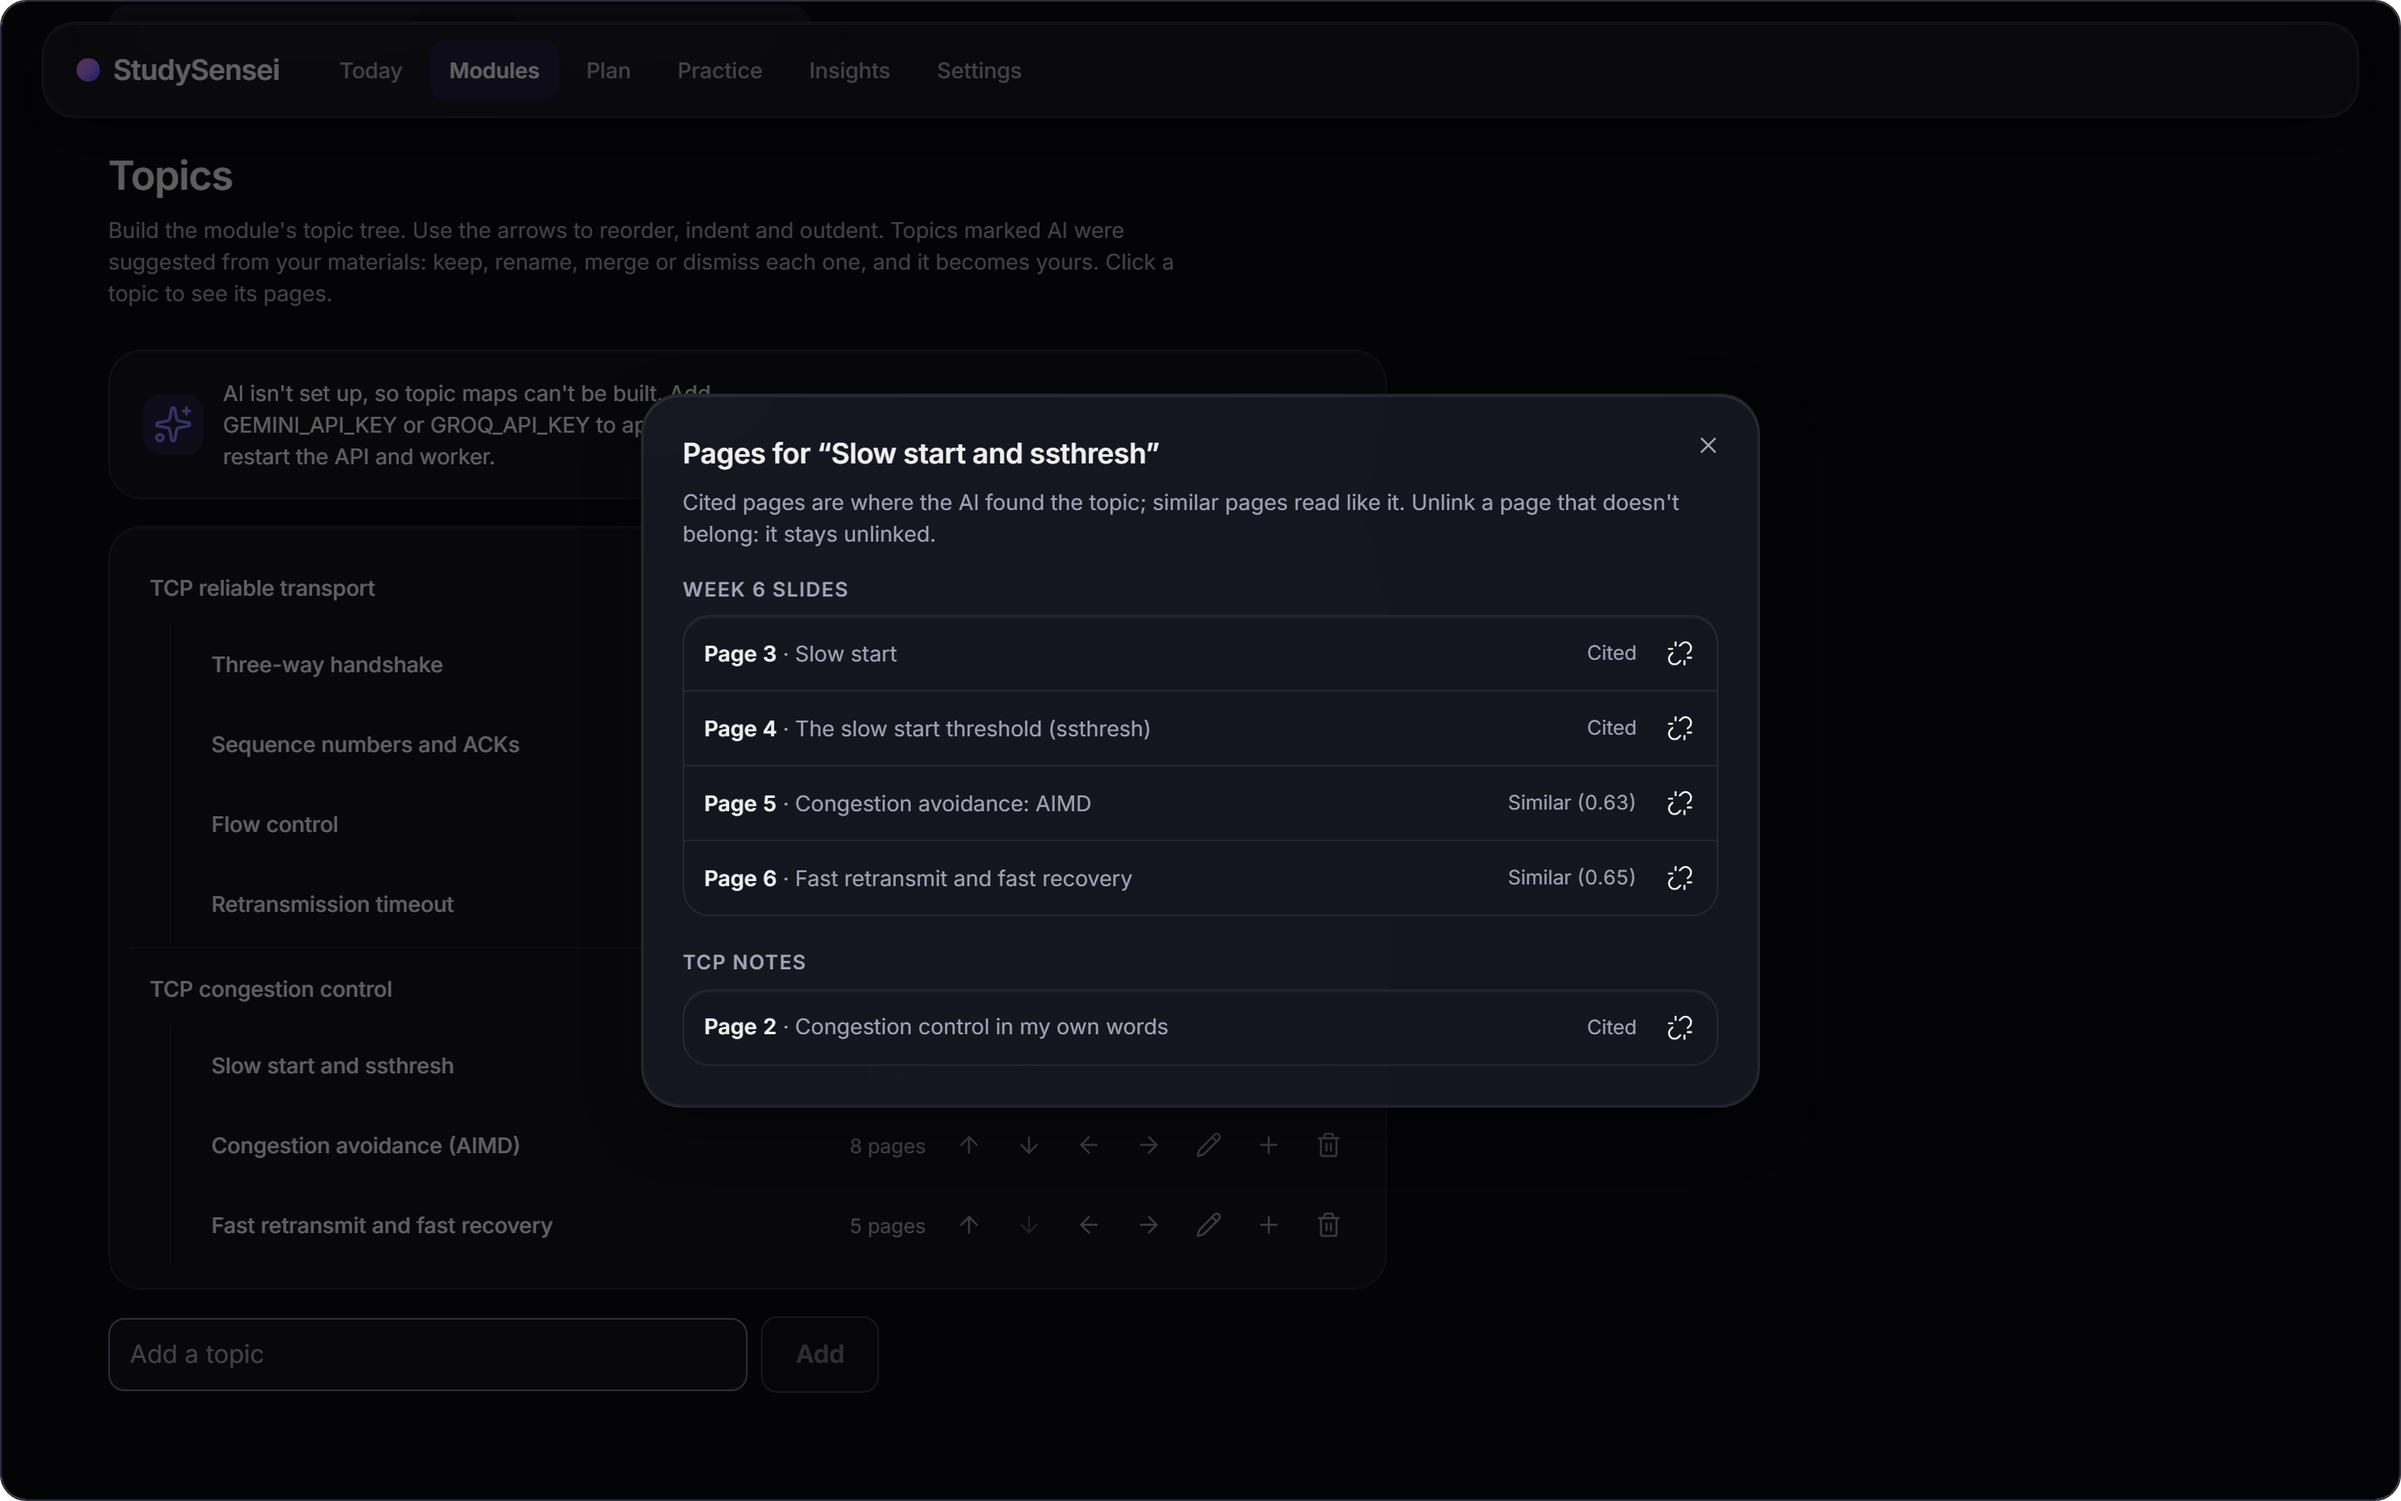
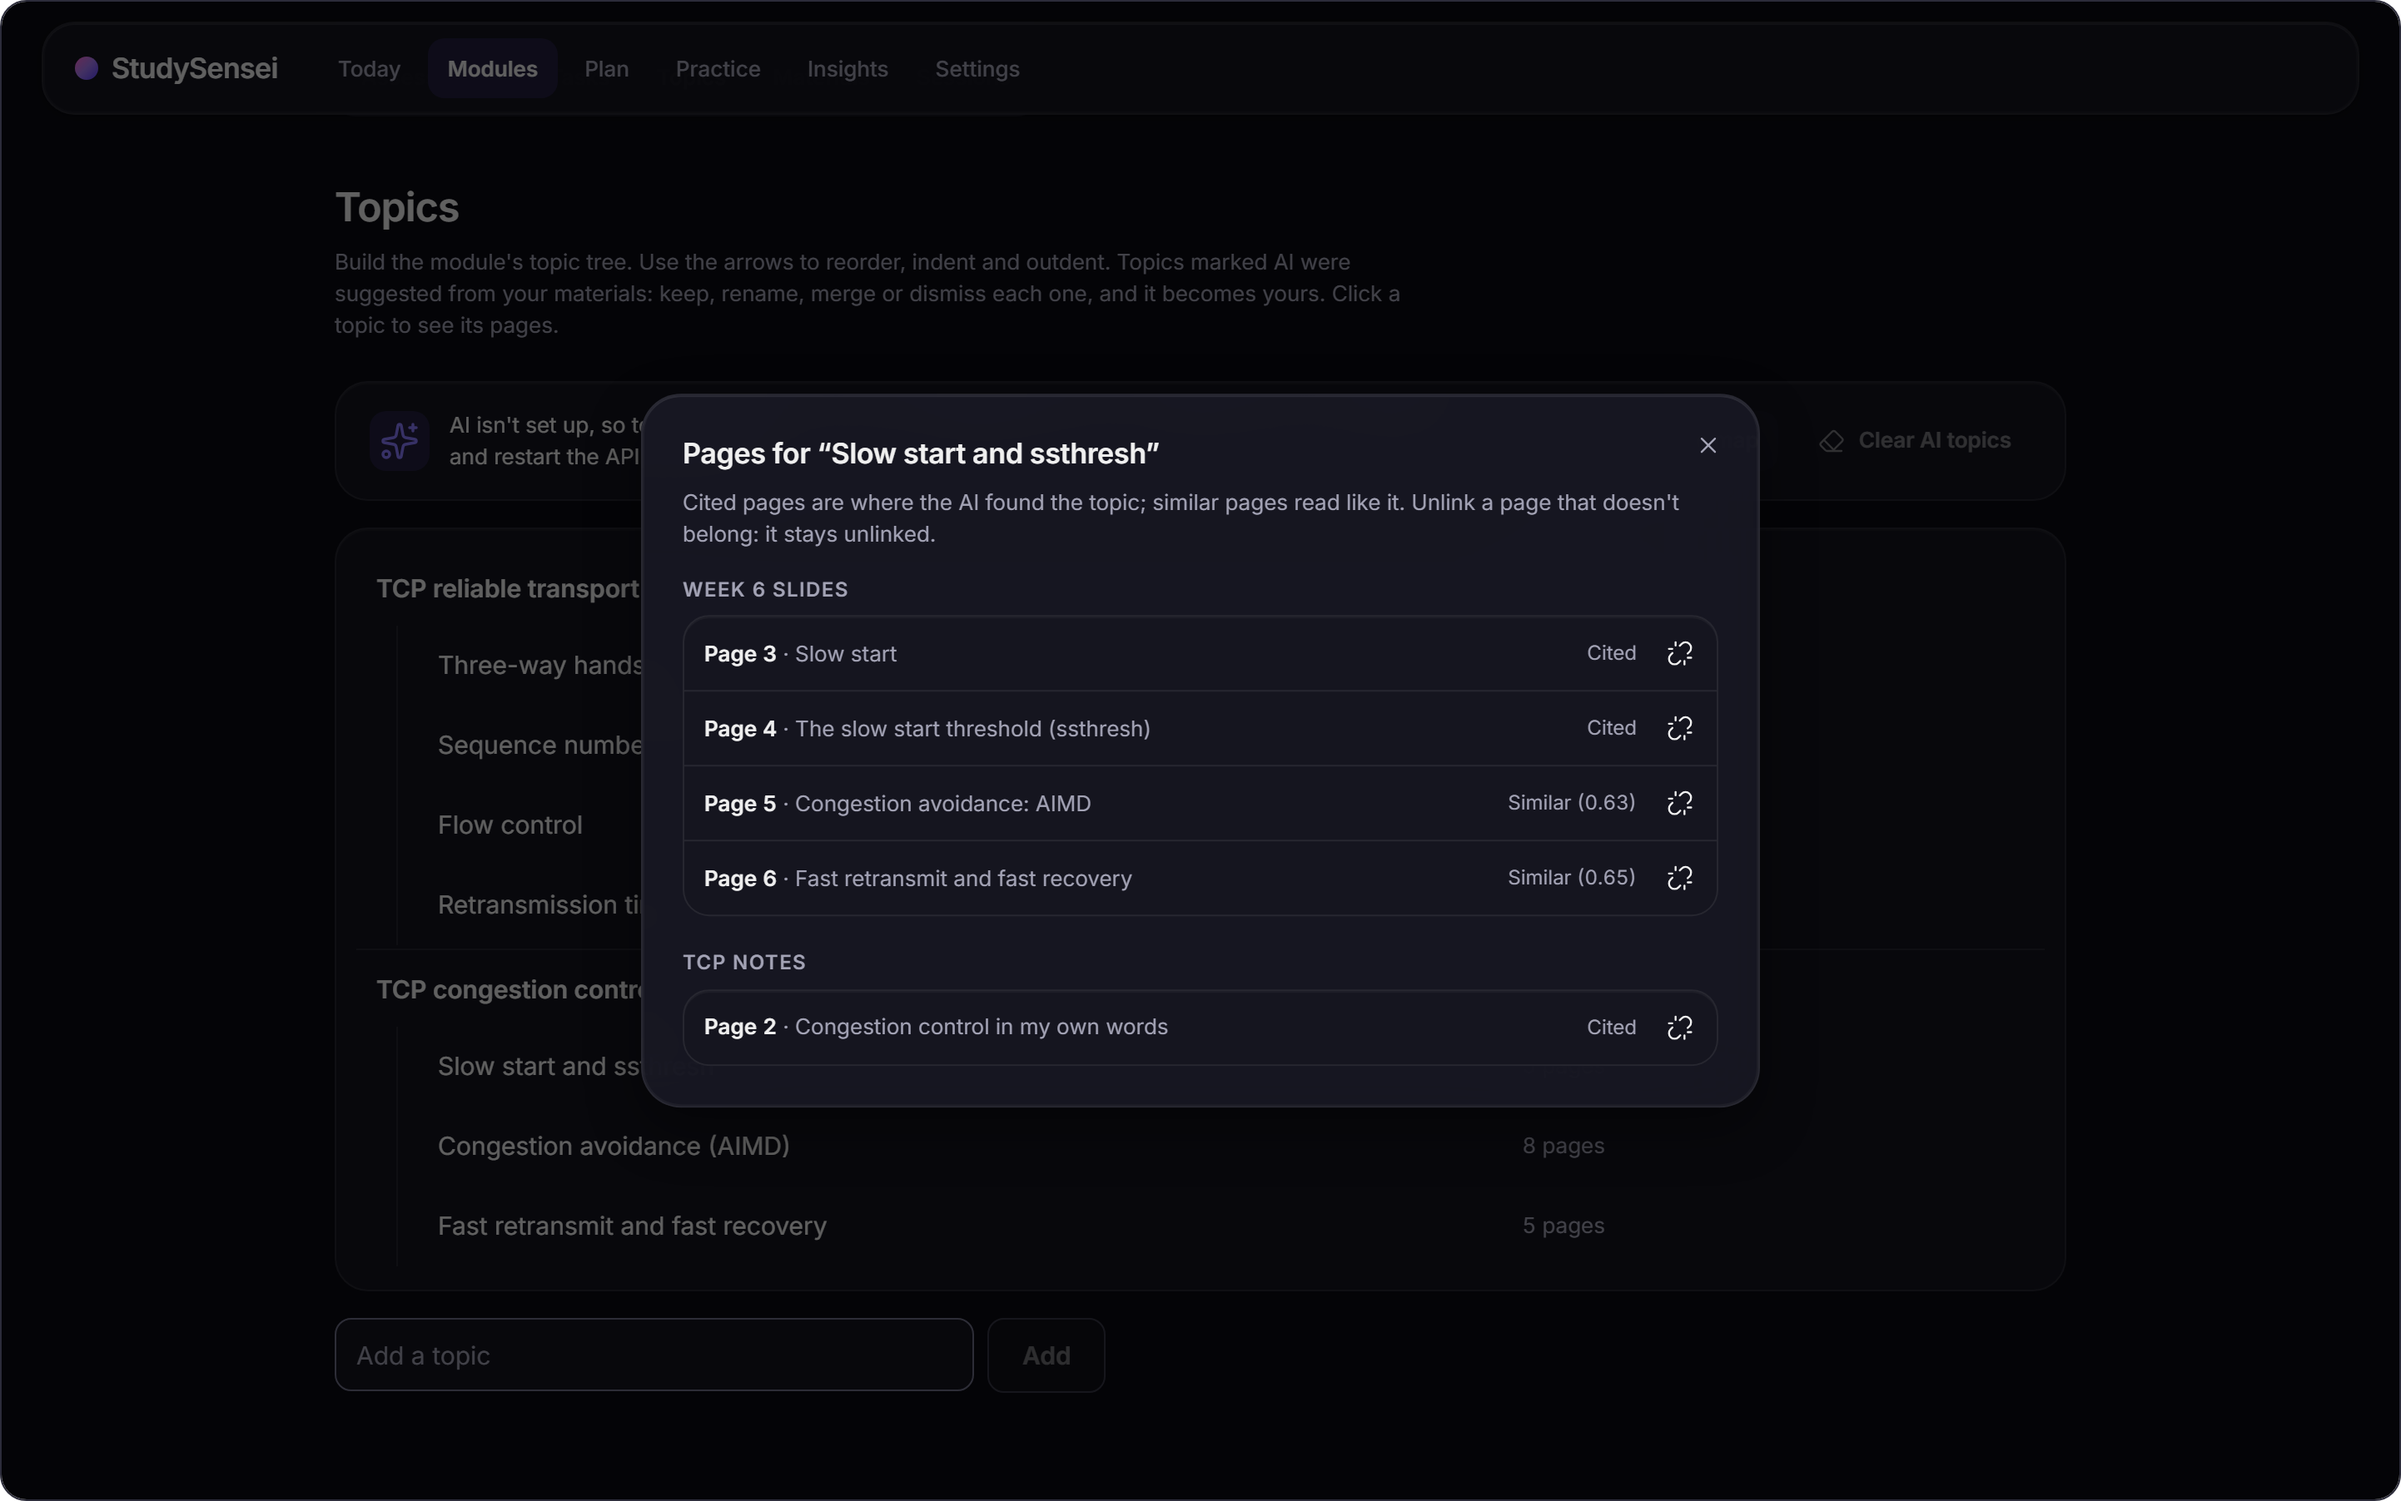
docs: badges, screenshots and assets regenerated; DESIGN rules; PROGRESS

diff --git a/docs/DESIGN.md b/docs/DESIGN.md
@@ -115,7 +115,8 @@ hairline, a top highlight and a soft shadow.
 | --- | --- | --- | --- |
 | `glass` | `rgba(255,255,255,0.62)` | `rgba(24,24,36,0.55)` | Glass over a known, soft backdrop: the session bar over its mist |
 | `glass-hero` | `rgba(255,255,255,0.80)` | `rgba(24,24,36,0.78)` | Text over the signature gradient (Today's hero) |
-| `glass-strong` | `rgba(255,255,255,0.86)` | `rgba(24,24,36,0.86)` | Glass that can float over anything: navigation, dialogs, menus, toolbars, toasts |
+| `glass-strong` | `rgba(255,255,255,0.86)` | `rgba(24,24,36,0.86)` | Glass that can float over anything: dialogs, menus, toolbars, toasts |
+| `glass-nav` | `rgba(255,255,255,0.92)`, blur 36 px | `rgba(21,21,31,0.94)`, blur 36 px | The navigation (top bar and phone tab bar): content scrolls under it all the time, so it's the most opaque |
 
 **Legibility:** every glass surface keeps 4.5:1 for `fg` and `muted` text against the worst case behind it. The base
 recipe passes over the session mist, but not over dark text or a bright module colour, so glass that can float over
@@ -132,7 +133,8 @@ any content uses `glass-strong`; `tokens.test.ts` checks each against its worst 
 | **Button: ghost / link** | No fill; hover `subtle`. Links are `link` violet |
 | **Button: destructive** | `surface` fill, `danger` text and border; hover a faint danger tint |
 | **States** | Hover (fill steps), pressed (scale 0.98), focus-visible (2 px `ring` outline, 2 px offset), selected (`accent-soft` or a raised surface), disabled (45 % opacity), loading (skeletons), empty, error (`danger` text with `role="alert"`), success (`success` text) |
-| **Top navigation** | Sticky glass bar, radius 20, inset from the edges. Wordmark (17/600 with a gradient dot), then sections; the current one is an `accent-soft` pill. Below 640 px the sections scroll sideways under the wordmark |
+| **Navigation** | One `<nav>`. From 640 px: a sticky `glass-nav` bar at the top, radius 20, inset from the edges, with the wordmark (17/600 with a gradient dot) and the sections; the current one is an `accent-soft` pill. Below 640 px: the wordmark stays at the top and the sections become a `glass-nav` tab bar fixed to the bottom (icons and 11 px labels, safe-area insets, the current tab violet on `accent-soft`) |
+| **Menu** (`ui/dropdown-menu.tsx`) | A "…" button (`MoreButton`, with a label) opening a `glass-strong` popover, radius 16; items 13/500, min-height 40; destructive items in `danger`. For secondary actions (a module's Edit and Delete; a topic's actions on touch screens) |
 | **Page header** | Label eyebrow, then H1 (or Display on Today), optional description, actions or tiles on the right |
 | **Card** | Solid `surface`, 1 px `line`, `shadow-sm`, radius 20, padding 20–24. `key` adds `shadow-md` |
 | **Segmented control** (tabs) | `subtle` track, radius 12, padding 4; segments radius 9; the selected one is a raised `surface` with `fg` text; others `muted`. Real `role="tab"` + `aria-selected`; scrolls sideways when narrow |
@@ -144,27 +146,34 @@ any content uses `glass-strong`; `tokens.test.ts` checks each against its worst 
 | **Meters** | Solid track (`subtle`), violet fill, with the *Measured* / *Estimated* labels beside them |
 | **Skeleton** | `skeleton` utility: a `subtle` block that pulses (opacity only) |
 | **Empty state** | One icon in an `accent-soft` well, one sentence, at most one action |
+| **Search result** | Leads with what will open, in strong text: the material's title and "page N"; the snippet underneath (Markdown stripped for display, highlights kept), clamped to 3 lines; one result per page, with "N matches on this page" when there are more |
+| **Viewer page** | A solid surface. **Fit page** (the default) fits the whole page into the visible area with no scrollbars; **Fit width** fits the width and scrolls down, with its scrollbar space reserved so the width never changes while drawing |
+| **Topic tree rows** | Chapters 15/600, subtopics 15/400, page counts muted. Row actions appear on hover and focus-within (still in the tab order); on touch screens they're behind one "…" menu |
 | **Icons** | lucide-react only, one stroke width (1.75, set globally) |
 
 ## Screens
 
 - **Today** (the most expressive): an editorial date in Display type; "Next up" as the hero card, the gradient as its
-  background with its text on a `glass-hero` layer; countdown tiles, deadlines and the day timeline (module-colour
-  blocks) calm and solid; the system status card quiet.
-- **Session** (`/session`): a very large, light timer inside a progress ring with a gradient stroke; a faint ambient
-  gradient mist behind it in both themes; a floating `glass` control bar (pause, break, end); the reflection form solid
-  and calm; the away dialog in glass.
-- **Modules and module detail:** a clean header with the module's colour; tabs as a segmented control; solid, readable
-  lists and tables.
+  background with its text on a `glass-hero` layer; countdown tiles and deadlines calm and solid; "Your day" a compact empty state until the
+  planner (Phase 4) supplies blocks; the system status card quiet.
+- **Session** (`/session`): one centred column: a very large, light timer inside a progress ring with a gradient
+  stroke; a faint ambient gradient mist behind it in both themes; a floating `glass` control bar (pause, break, end);
+  then one small card for Materials and the tutor note (the tutor gets its own column when it exists, Phase 3); the
+  reflection form solid and calm; the away dialog in glass.
+- **Modules and module detail:** a clean header with the module's colour, Start session as the one primary action and
+  Edit and Delete in a "…" menu; tabs as a segmented control; solid, readable lists and tables.
 - **Topics:** a solid tree; AI and review state shown subtly (a small violet dot and a quiet label); the ReviewBar a
   floating glass toolbar; the merge and linked-pages dialogs in glass.
 - **Materials:** a refined upload area and status, skeleton loaders, a prominent search box, and the viewer's chrome
   in glass with the page canvas on a solid surface.
-- **Settings:** AI providers in solid cards with violet usage meters (labels kept), and Appearance.
+- **Settings:** Appearance first, then AI providers in solid cards with violet usage meters (labels kept).
 - **Placeholders** (Plan, Practice, Insights): a designed empty state saying which phase each arrives in.
 
-## Responsive
+## Layout and responsive
 
-Desktop (1440), tablet (768) and mobile (375). Page padding 16 on mobile, 32 on tablet, 40 on desktop. Grids collapse
-to one column below 1024 px; the navigation scrolls sideways below 640 px; dialogs stay within the viewport and scroll
-inside.
+- **One container per page:** 1120 px, centred. A page's header and its content share it, so header actions line up
+  with the content's right edge. Sections don't add narrower columns of their own; only long prose keeps a readable
+  measure (`max-w-2xl` on the paragraph).
+- Desktop (1440), tablet (768) and mobile (375). Page padding 16 on mobile, 32 on tablet, 40 on desktop. Grids collapse
+  to one column below 1024 px; below 640 px the navigation is the bottom tab bar and pages keep room for it; dialogs
+  stay within the viewport and scroll inside.

diff --git a/docs/PROGRESS.md b/docs/PROGRESS.md
@@ -2,6 +2,55 @@
 
 Newest first. 3–5 lines per session: what was done, what was decided, what's next.
 
+## 2026-11-18: Glass polish, and the e2e failure on main
+
+- **CI on main was red** (run 44321451301: the e2e job's "a PDF opens from a search result" failed after #33 merged,
+  though it passed on the PR; seen once locally before #33 too).
+  - **Root cause:** a race in the viewer, not in the test. `PdfPage` kept "drawing" as state that it only set to true
+    in an effect, after React had committed the new page. For one commit after turning from page 3 to page 1, the page
+    region read "Page 1, aria-busy false" with page 3's stale state. The test's wait for `aria-busy="false"` passed at
+    once, the effect then started drawing (which clears the canvas), and the canvas check read a blank canvas.
+  - A second window: when a drawn page grew tall enough to need the box's scrollbar, the box narrowed and the page was
+    redrawn.
+  - **Fix:** busy is derived from what was last drawn completely (page, zoom and size), so a new page is busy from its
+    first commit. Fit page has a fixed-height box that never scrolls; Fit width reserves its scrollbar space.
+  - A regression test reads the region in every commit (a React Profiler) and fails on the old component.
+  - No sleeps or retries.
+- **CI:** checkout v7, setup-node v7, cache v5, upload-artifact v7, setup-uv v10 (all Node 24); every job pinned to
+  `ubuntu-24.04`. "CI passed" is still the only required check.
+- **Polish:**
+  - **Badges:** violet with an ink label. The CI badge keeps shields.io's status colour, so failures still show red.
+  - **Search results:** led by "title · page N", with the snippet clamped below. Markdown is stripped for display, one
+    result per page shows "N matches on this page", and the API is unchanged.
+  - **Viewer:** Fit page (the default, no scrollbars) and Fit width.
+  - **Topic tree:** chapter rows are bolder than subtopic rows. Row actions show on hover or focus, and sit in a "…"
+    menu on touch screens.
+  - **Module header:** Edit and Delete moved into a "…" menu.
+  - **Layout:** one 1120 px container for every page.
+  - **Today:** "Next up" now says "Start a session on any module."; "Your day" is a compact empty state instead of an
+    empty hour grid.
+  - **Phones:** a glass bottom tab bar under 640 px, with the wordmark staying at the top.
+  - **Materials rows:** each fact said once.
+  - **Settings:** Appearance first.
+  - **Navigation glass:** stronger (`glass-nav`, 0.92 / 0.94 tint and 36 px blur; checked in `tokens.test.ts`).
+  - **Session:** one centred column, with a small card for Materials and the tutor note.
+- **Tests changed** (only where markup or copy changed):
+  - module Edit and Delete are opened from the menu;
+  - search hits are asserted by title and page, in the unit test and in two e2e lines;
+  - the ready chip says "Ready", and the scanned count appears once;
+  - Today asserts no hour grid and the new Next-up line.
+- **New tests:** the viewer race, Fit page / Fit width, Markdown stripping and grouping (11), one result per page, and
+  the topic "…" menu.
+- **Repeat run:** `npm run e2e -- --repeat-each=10`: **30 of 30 passed** (3 tests × 10). Getting there exposed two
+  problems with the tests themselves, now fixed with no sleeps or retries:
+  - **Fixed module codes:** a repeat reuses the database, so each run's module code now gets a suffix
+    (`uniqueCode`, e.g. `MAT101-R3`).
+  - **Paused clock too early:** the session spec paused its fake clock before opening the start dialog. The app's data
+    layer delivers results through timers, so switching to this run's module (when an earlier run's module was the
+    default) never showed its topics. The clock now runs until the dialog is filled, then pauses before Start.
+  - Also, the first search of a run waits for its own result (the API loads the embedding model on first use) instead
+    of the default 5 s.
+
 ## 2026-11-18: Visual direction C "Glass" (decision 0012)
 
 - **Done:**

diff --git a/README.md b/README.md
@@ -16,9 +16,9 @@ Next: a tutor that answers with citations into your pages, and a planner that te
 </p>
 
 <p align="center">
-  <a href="https://github.com/Josh-Heath123/StudySensei/actions/workflows/ci.yml"><img alt="CI" src="https://img.shields.io/github/actions/workflow/status/Josh-Heath123/StudySensei/ci.yml?branch=main&label=CI&labelColor=111111"></a>
-  <a href="LICENSE"><img alt="licence: all rights reserved" src="https://img.shields.io/badge/licence-all%20rights%20reserved-FF7A3D?labelColor=111111"></a>
-  <a href="docs/ROADMAP.md"><img alt="status: Phase 2 of 9 complete" src="https://img.shields.io/badge/status-Phase%202%20of%209%20complete-FF7A3D?labelColor=111111"></a>
+  <a href="https://github.com/Josh-Heath123/StudySensei/actions/workflows/ci.yml"><img alt="CI" src="https://img.shields.io/github/actions/workflow/status/Josh-Heath123/StudySensei/ci.yml?branch=main&label=CI&labelColor=0B0B12"></a>
+  <a href="LICENSE"><img alt="licence: all rights reserved" src="https://img.shields.io/badge/licence-all%20rights%20reserved-5840FF?labelColor=0B0B12"></a>
+  <a href="docs/ROADMAP.md"><img alt="status: Phase 2 of 9 complete" src="https://img.shields.io/badge/status-Phase%202%20of%209%20complete-5840FF?labelColor=0B0B12"></a>
 </p>
 
 <p align="center"><picture><source media="(prefers-color-scheme: dark)" srcset="docs/assets/screenshots/today-dark.png" /><img src="docs/assets/screenshots/today-light.png" alt="The Today page: countdowns to the next assessments, the day timeline and upcoming deadlines" /></picture></p>
